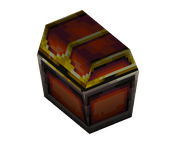
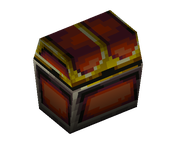
Enhance level editor with fast load mode and custom presentation handling

diff --git a/scripts/build_palette_icons.py b/scripts/build_palette_icons.py
@@ -9,7 +9,7 @@ Every icon is the game's own art, not a drawing:
     crystal  100 AP crystal - resident sprite 6 recoloured with reward 4's
              CLUT, exactly what the game draws
     apple    red apple - resident sprite 0 with reward 0's CLUT
-    item     Red Key - its inventory icon, resident sprite 159
+    item     Red Key - its ground sprite, Fishermen's own sprite file frame 9
     weapon   wooden Boomerang - the 3D model the game spawns for reward 18:
              a model pickup reads the reward's palette field as the model
              file (1, resident) and its sequence as the group (16)
@@ -40,21 +40,10 @@ import retail_icon_render                                    # noqa: E402
 
 SIZE = (176, 144)
 RESIDENT, FISHERMEN = 1, 4
-SPRITES = {"crystal": (6, 4), "apple": (0, 0), "item": (159, None)}
+SPRITES = {"crystal": (6, 4), "apple": (0, 0), "item": (9, None)}
+# The Red Key's ground sprite lives only in Fishermen's own sprite file.
+AREA_SPRITES = {"item": FISHERMEN}
 WEAPON_REWARD = 18
-# Inventory icons carry the menu's frame and backing in their own texels.
-FRAMED = {"item"}
-
-
-def _unframe(image):
-    """Clear an inventory icon's border colour and its backing colour."""
-    pixels = image.load()
-    border, backing = pixels[0, 0], pixels[2, 2]
-    for y in range(image.height):
-        for x in range(image.width):
-            if pixels[x, y] in (border, backing):
-                pixels[x, y] = (0, 0, 0, 0)
-    return image
 
 
 def _files(idx, chunk):
@@ -101,7 +90,8 @@ def build(retail, out_dir):
     os.makedirs(out_dir, exist_ok=True)
     made = {}
 
-    # The chest: its real model, body and lid where the game puts them.
+    # The chest: its real model, body and lid where the game puts them. The
+    # lid hinges at game +Z (the back), so the camera sits on the -Z side.
     at, size = files[pickup_art.CHEST_FILE]
     with open(dat_path, "rb") as f:
         f.seek(at)
@@ -112,27 +102,30 @@ def build(retail, out_dir):
              lid[1]: retail_icon_render.pose(offset=offsets[1])}
     made["chest"] = retail_icon_render.render_model(
         model, vram, groups=[body[1], lid[1]], poses=poses,
-        size=SIZE, yaw=-35.0, margin=10)
+        size=SIZE, yaw=-125.0, margin=10)
 
     # The weapon: the model its reward names, out of the same resident file.
+    # It's a flat upright card, so it's turned in its own plane (90° clockwise).
     art = pickup_art.reward_art(exe)[WEAPON_REWARD]
     assert art.clut & 0x7FFF == pickup_art.CHEST_FILE, "weapon model is not in resident file 1"
     made["weapon"] = retail_icon_render.render_model(
-        model, vram, groups=[art.sequence], size=SIZE, yaw=90.0, elevation=60.0, margin=14)
+        model, vram, groups=[art.sequence], size=SIZE[::-1], yaw=90.0, elevation=60.0,
+        margin=14).rotate(-90, expand=True)
 
     # Sprites, through the same renderer and CLUT override the editor uses.
-    at, size = files[0]
-    bank = load_sprt(dat_path, at, 0, size)
     textures = sprt_render.VRAMTextures(vram, stp=True)
     rewards = pickup_art.reward_art(exe)
+    banks = {}
     for kind, (frame, reward) in SPRITES.items():
-        sprite = bank.sprites[frame]
+        chunk = AREA_SPRITES.get(kind, RESIDENT)
+        if chunk not in banks:
+            at, size = _files(idx, chunk)[0 if chunk == RESIDENT else pickup_art.AREA_BANK_FILE]
+            banks[chunk] = load_sprt(dat_path, at, 0, size)
+        sprite = banks[chunk].sprites[frame]
         if reward is not None and rewards[reward].recolored:
             clut = rewards[reward].clut
             sprite = replace(sprite, pieces=[replace(p, clut=clut) for p in sprite.pieces])
         image, _x, _y = sprt_render.render_sprite(sprite, textures)
-        if kind in FRAMED:
-            image = _unframe(image)
         made[kind] = _fit(image)
 
     for kind, image in made.items():

diff --git a/gui/level/level_viewer.py b/gui/level/level_viewer.py
@@ -22,13 +22,13 @@ import numpy as np
 from OpenGL import GL
 from PyQt6.QtCore import QPropertyAnimation, Qt, QTimer, pyqtSignal
 from PyQt6.QtGui import (
-    QAction, QMatrix4x4, QVector2D, QVector3D, QVector4D)
+    QAction, QActionGroup, QMatrix4x4, QVector2D, QVector3D, QVector4D)
 from PyQt6.QtOpenGL import (
     QOpenGLBuffer, QOpenGLShader, QOpenGLShaderProgram,
     QOpenGLVertexArrayObject,
 )
 from PyQt6.QtWidgets import (QFileDialog, QGraphicsOpacityEffect, QLabel,
-                             QMenu, QMessageBox, QStyle)
+                             QMenu, QMessageBox, QStyle, QToolBar)
 
 from game import game_build
 from formats.models import gltf_export
@@ -166,6 +166,8 @@ class LevelViewer(SMSTViewer):
     part_changed = pyqtSignal(object, object)
     pickup_dropped = pyqtSignal(str, object)
     edit_failed = pyqtSignal(str)
+    # True for Edit mode, False for Preview.
+    mode_changed = pyqtSignal(bool)
 
     def __init__(self, parent=None):
         super().__init__(parent)
@@ -200,6 +202,31 @@ class LevelViewer(SMSTViewer):
         self._status_hold = QTimer(self)
         self._status_hold.setSingleShot(True)
         self._status_hold.timeout.connect(self._status_animation.start)
+
+        # Preview: the area as the game runs it. Edit: a fast load - no actor
+        # code run, nothing recorded - and the only mode that takes new pickups.
+        self.edit_mode = False
+        self.mode_bar = QToolBar(self)
+        self.mode_bar.setObjectName("viewerToolbar")
+        self.mode_bar.setToolButtonStyle(Qt.ToolButtonStyle.ToolButtonTextOnly)
+        modes = QActionGroup(self)
+        modes.setExclusive(True)
+        self.preview_action = QAction("Preview mode", self)
+        self.preview_action.setToolTip(
+            "The area as the game runs it: every actor's code run, effects "
+            "and idle poses recorded. Slow to load; nothing can be added.")
+        self.edit_action = QAction("Edit mode", self)
+        self.edit_action.setToolTip(
+            "Fast load for placing things: no actor code is run and nothing "
+            "is recorded, objects show their models as placed. Drag pickups "
+            "in from the palette.")
+        for action in (self.preview_action, self.edit_action):
+            action.setCheckable(True)
+            modes.addAction(action)
+            self.mode_bar.addAction(action)
+        self.preview_action.setChecked(True)
+        self.edit_action.toggled.connect(self._set_edit_mode)
+        self.layout().insertWidget(0, self.mode_bar)
 
         self.gif_action.setToolTip(
             "Record the selected row alone, framed, over one loop of whatever "
@@ -1117,10 +1144,14 @@ class LevelViewer(SMSTViewer):
         right, up = self._camera_axes()
         return self._plane_point(x, y, anchor, np.cross(right, up))
 
+    def _set_edit_mode(self, on):
+        self.edit_mode = on
+        self.mode_changed.emit(on)
+
     def dragEnterEvent(self, event):
         from gui.level.placement_palette import MIME
         if (event.mimeData().hasFormat(MIME) and self.scene is not None
-                and not getattr(self, "loading", False)):
+                and self.edit_mode and not getattr(self, "loading", False)):
             event.acceptProposedAction()
         else:
             event.ignore()
@@ -1131,7 +1162,7 @@ class LevelViewer(SMSTViewer):
     def dropEvent(self, event):
         from gui.level.placement_palette import MIME
         if (not event.mimeData().hasFormat(MIME) or self.scene is None
-                or getattr(self, "loading", False)):
+                or not self.edit_mode or getattr(self, "loading", False)):
             event.ignore()
             return
         kind = bytes(event.mimeData().data(MIME)).decode("ascii", errors="replace")

diff --git a/game/pickup_edit.py b/game/pickup_edit.py
@@ -166,9 +166,10 @@ def ensure_custom_rewards(exe_path, overlay_paths, *, item_ids=(29,)):
     (WINDOW_START). Five audited MAIN references then use it; every reader
     acts on a live pickup, which only exists while an area overlay is
     loaded. All native definitions remain byte-identical and in native
-    order. Custom entries deliberately use the resident Lunch Box
-    presentation; their inventory grant and message use the selected item
-    definition. The caller must commit ALL returned files together.
+    order. Custom entries use the area's own ground sprite where
+    AREA_ITEM_ART names one, else the resident Lunch Box presentation;
+    their inventory grant and message use the selected item definition.
+    The caller must commit ALL returned files together.
     """
     exe_path = str(exe_path)
     exe = Path(exe_path).read_bytes()
@@ -197,7 +198,8 @@ def ensure_custom_rewards(exe_path, overlay_paths, *, item_ids=(29,)):
             raise placement.PlacementError("The custom item reward definitions differ between overlays.")
         if any(data[CUSTOM_OFFSET:CUSTOM_OFFSET + len(native)] != native for data in sources.values()):
             raise placement.PlacementError("The custom table no longer matches the native reward definitions.")
-        mapping = {item: reward for reward, item in enumerate(next(iter(columns))) if item >= 0}
+        mapping = {item: reward for reward, item in enumerate(next(iter(columns)))
+                   if reward >= NATIVE_REWARDS and item >= 0}
     elif any(any(data[CUSTOM_OFFSET:end]) for data in sources.values()):
         raise placement.PlacementError("An overlay already occupies the reserved custom reward address.")
     else:
@@ -362,14 +364,16 @@ def reward_catalog(exe_path, overlay_path=None, area=None):
         else:
             category = "weapon" if types.get(art.item, ("", False))[1] else "item"
             label = art.grants
-        if reward >= NATIVE_REWARDS:
+        area_art = art.clut & 0x7FFF == pickup_art.AREA_BANK
+        if reward >= NATIVE_REWARDS and not area_art:
             label += " (shared pickup icon)"
         available = bool(art.frames)
         reason = "" if available else "This area's native sprite sequence is unavailable."
         # An area-bank sprite is numbered in THIS area's own sprite file and
         # sequence table, which hold only what the area itself shows. Any
         # other index reads another sprite or runs off the end of the table.
-        if available and art.clut & 0x7FFF == pickup_art.AREA_BANK and reward not in shipped:
+        # Custom rows only point there when AREA_ITEM_ART vouches for it.
+        if available and area_art and reward < NATIVE_REWARDS and reward not in shipped:
             available = False
             reason = "This area has no art of its own for this pickup."
         if art.item in SCRIPTED_ITEM_GRANTS:

diff --git a/gui/level/load_worker.py b/gui/level/load_worker.py
@@ -148,7 +148,7 @@ def sprites(scene, vram):
     return atlas, quads
 
 
-def background(scene, vram, overlay):
+def background(scene, vram, overlay, fast=False):
     from formats.background import bgmp_render
     from formats.background.bgmp_parser import load_bgmp
     from gui.level.level_panel import LevelEditorPanel
@@ -161,7 +161,9 @@ def background(scene, vram, overlay):
     bg = load_bgmp(scene.dat_path, scene.dat_start, *entry)
     textures = bgmp_render.BackgroundTextures(vram) if vram else None
     offset = bgmp_render.detect_page_y_offset(bg, textures)
-    phases = LevelEditorPanel._background_frames(None, bg, vram, offset, overlay)
+    # Edit mode: one still frame, no palette animation run.
+    phases = LevelEditorPanel._background_frames(None, bg, vram, offset,
+                                                 None if fast else overlay)
     if sky is not None:
         phases = [(sky_gradient.under(image, sky), ms) for image, ms in phases]
     return phases
@@ -172,6 +174,9 @@ def main(argv):
     manifest, directory = argv
     with open(manifest, encoding="utf-8") as f:
         args = json.load(f)
+    # (dat, idx, chunk, overlay, exe, progress[, fast])
+    fast = bool(args[6]) if len(args) > 6 else False
+    args = args[:6]
     vram = load_vram(args[0], args[1], args[2])
     phases = None
     sequence = 0
@@ -185,7 +190,7 @@ def main(argv):
         # UV animations are looked for in the rooms themselves: the level's
         # other faces with the same palette are captured drawings, which
         # already carry the frames they were recorded in.
-        prepared = (*prepared, prepare_animation_data(
+        prepared = (*prepared, ({}, {}, ()) if fast else prepare_animation_data(
             vram, scene.build(), args[3],
             uv_models=[room for _where, room in scene.rooms]))
         positions = scene.positions(scene.build())
@@ -203,7 +208,7 @@ def main(argv):
         scene._prepared_collision = {view: scene.collision(view, bounds)
                                      for view in (None, "all", *bounds)}
         if phases is None:
-            phases = background(scene, vram, args[3])
+            phases = background(scene, vram, args[3], fast)
         atlas = sprites(scene, vram)
         state = {k: v for k, v in scene.__dict__.items() if k != "world"}
         path = os.path.join(directory, f"stage-{sequence}.pickle")
@@ -216,7 +221,7 @@ def main(argv):
 
     # stdout is the snapshot protocol; normal diagnostics stay on stderr.
     with contextlib.redirect_stdout(_StatusTee(sys.stderr, protocol)):
-        scene = LevelScene().load(*args, publish=publish)
+        scene = LevelScene().load(*args, publish=publish, fast=fast)
         publish(scene, "Ready", complete=True)
     return 0
 

diff --git a/gui/level/level_scene.py b/gui/level/level_scene.py
@@ -973,11 +973,17 @@ class LevelScene:
     # --- loading ------------------------------------------------------
 
     def load(self, dat_path, idx_path, chunk_index, overlay_path=None,
-             exe_path=None, progress=FRESH, publish=None):
+             exe_path=None, progress=FRESH, publish=None, fast=False):
         """Read one area. Never raises for a missing piece - an area
         with no background, no overlay or no asset pack is still worth
-        opening, and the notes say what was not there."""
+        opening, and the notes say what was not there.
+
+        `fast` (the Level Editor's Edit mode) skips running the actors'
+        code: objects come from their handlers' models, nothing is
+        recorded, and only the fresh game is read."""
         self.__init__()
+        if fast:
+            progress = FRESH
         self.dat_path = dat_path
         self.chunk_index = chunk_index
         self.overlay_path = overlay_path
@@ -990,7 +996,7 @@ class LevelScene:
         # The same area, built from the same disc and the same code, is the
         # same scene - game/scene_cache.py keeps it.
         name = scene_cache.key(dat_path, idx_path, chunk_index, overlay_path or "",
-                               exe_path or "", progress)
+                               exe_path or "", progress, *(("fast",) if fast else ()))
         kept = scene_cache.read(name)
         if kept is not None:
             self.__dict__.update(kept)
@@ -1030,7 +1036,7 @@ class LevelScene:
             except OSError:
                 pass
             self.placements = placement_module.load_placements(overlay_path)
-            if publish is not None:
+            if publish is not None and not fast:
                 self.instances = [Instance(index=n, role="room",
                     label=f"Area ({where})", room=n)
                     for n, (where, _room) in enumerate(self.rooms)]
@@ -1077,7 +1083,7 @@ class LevelScene:
         # heading off the plane it stands on.
         self.planes = self._load_planes(idx_path, dat_path, chunk_index)
         self.model_names = placement_module.load_model_names()
-        if overlay_path and exe_path:
+        if overlay_path and exe_path and not fast:
             self.world = self._simulate(idx_path, publish)
 
         self._built_model = None

diff --git a/gui/main_window/window.py b/gui/main_window/window.py
@@ -209,25 +209,24 @@ class MainWindow(TreeMixin, ViewerDispatchMixin, LabelsMixin, ModelsMixin, FileE
         dat_panel_layout.addWidget(self.dat_view)
         dat_panel.setLayout(dat_panel_layout)
 
-        # Tab 1 (default): the existing tree + per-file viewer splitter.
-        # Tab 2: MAIN.EXE's own string-pool editor (gui/mainbin_viewer.py) -
-        # populated whenever a MAIN.EXE is found alongside the opened
-        # ISO/folder (see open_iso_dialog/open_folder_dialog), left empty
-        # otherwise.
+        # Tab 1 (default): the Level Editor - a whole area at once rather
+        # than a file at a time: the room, its background, and everything
+        # the area's overlay stands in it - see gui/level/.
+        # Then the tree + per-file viewer splitter, and MAIN.EXE's own
+        # string-pool editor (gui/mainbin_viewer.py) - populated whenever a
+        # MAIN.EXE is found alongside the opened ISO/folder (see
+        # open_iso_dialog/open_folder_dialog), left empty otherwise.
         self.mainexe_viewer = MainExeViewer()
         self.bins_viewer = BinsViewer()
         self.main_tabs = QTabWidget()
+        self.level_panel = LevelEditorPanel()
+        self.main_tabs.addTab(self.level_panel, "Level Editor")
         self.main_tabs.addTab(self.splitter, "Indexed View (IDX)")
         self.main_tabs.addTab(dat_panel, "Data View (DAT)")
         self.img_browser = IMGBrowser()
         self.main_tabs.addTab(self.img_browser, "Image View (IMG)")
         self.main_tabs.addTab(self.mainexe_viewer, "MAIN.EXE")
         self.main_tabs.addTab(self.bins_viewer, "BINs")
-        # A whole area at once rather than a file at a time: the room,
-        # its background, and everything the area's overlay stands in
-        # it - see gui/level/.
-        self.level_panel = LevelEditorPanel()
-        self.main_tabs.addTab(self.level_panel, "Level Editor")
         # Its own tab rather than beside the text: the voice track has to
         # be opened from a raw BIN, which is a different file from the
         # disc the rest of the tool is working on.

diff --git a/gui/level/level_panel.py b/gui/level/level_panel.py
@@ -1328,8 +1328,9 @@ class LevelEditorPanel(QWidget):
         if not self.exe_path or not os.path.isfile(self.exe_path):
             return
         from game import pickup_edit
+        overlays = self._all_overlay_paths()
         try:
-            files = pickup_edit.repair_legacy_layout(self.exe_path, self._all_overlay_paths())
+            files = pickup_edit.repair_legacy_layout(self.exe_path, overlays)
             if files:
                 self._write_placement_files(files)
         except (ValueError, OSError) as exc:
@@ -1339,6 +1340,16 @@ class LevelEditorPanel(QWidget):
                 f"game, and it couldn't be repaired automatically:\n\n{exc}")
             return
         if not files:
+            # Older custom tables drew every added item with the shared icon;
+            # give it the area's own ground sprite where the area has one.
+            try:
+                art = pickup_edit.refresh_custom_presentation(self.exe_path, overlays)
+                if art:
+                    self._write_placement_files(art)
+            except (ValueError, OSError):
+                return
+            for path, data in art.items():
+                self._placement_files[os.path.basename(path)] = data
             return
         for path, data in files.items():
             self._placement_files[os.path.basename(path)] = data

diff --git a/formats/sprites/pickup_art.py b/formats/sprites/pickup_art.py
@@ -422,7 +422,11 @@ def reward_art(exe_path, count=REWARD_COUNT, overlay=None, area=None):
                             sequence=sequence, clut=clut,
                             name=names.get(item, f"item {item}"))
             try:
-                art.frames, art.loops = _sequence(data, base, sequence)
+                if art.resident:
+                    art.frames, art.loops = _sequence(data, base, sequence)
+                elif area is not None and 0 <= area < AREA_SEQUENCE_COUNT:
+                    art.frames, art.loops = _area_sequence(data, base, overlay,
+                                                           area, sequence)
             except PickupArtError:
                 pass
             out[reward] = art

diff --git a/gui/main_window/tree.py b/gui/main_window/tree.py
@@ -96,7 +96,7 @@ class TreeMixin:
             self.tree_view.expand(walked)
             walked = walked.parent()
 
-        self.main_tabs.setCurrentIndex(0)
+        self.main_tabs.setCurrentWidget(self.splitter)
         self.tree_view.selectionModel().setCurrentIndex(
             target_index,
             QItemSelectionModel.SelectionFlag.ClearAndSelect
